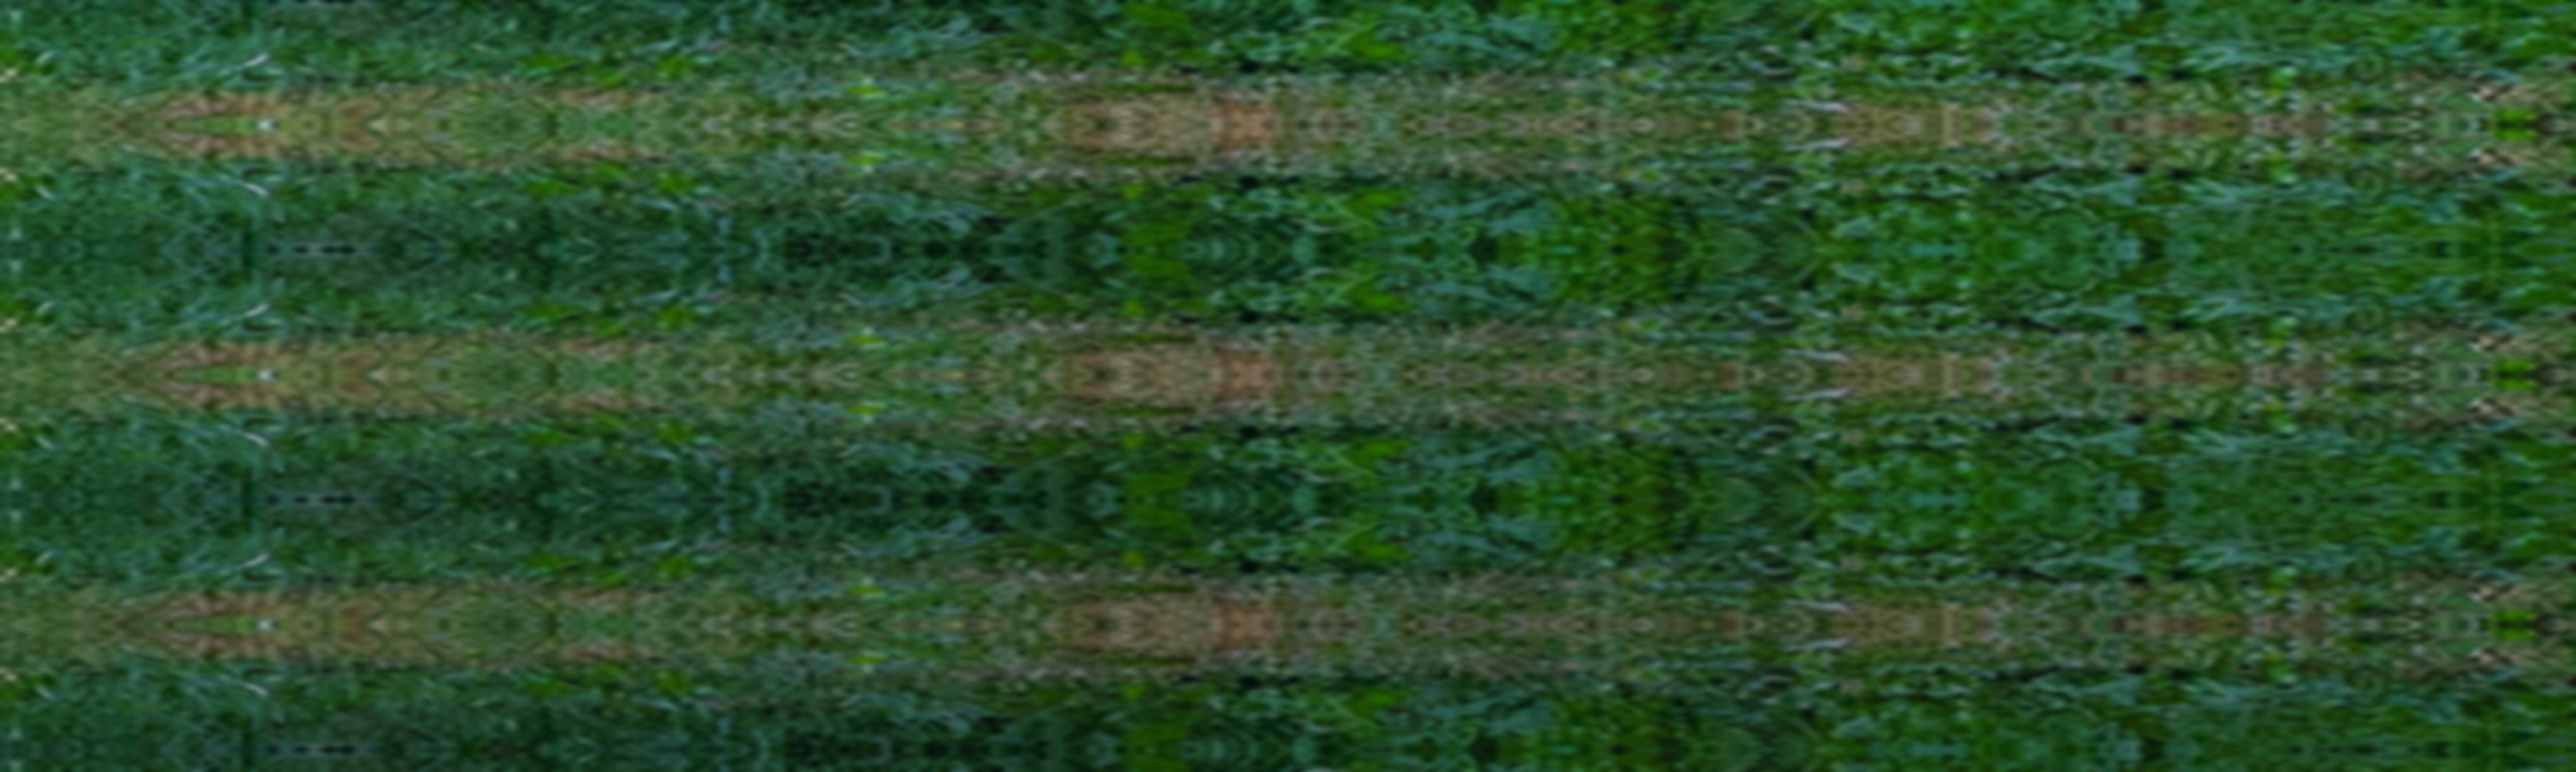
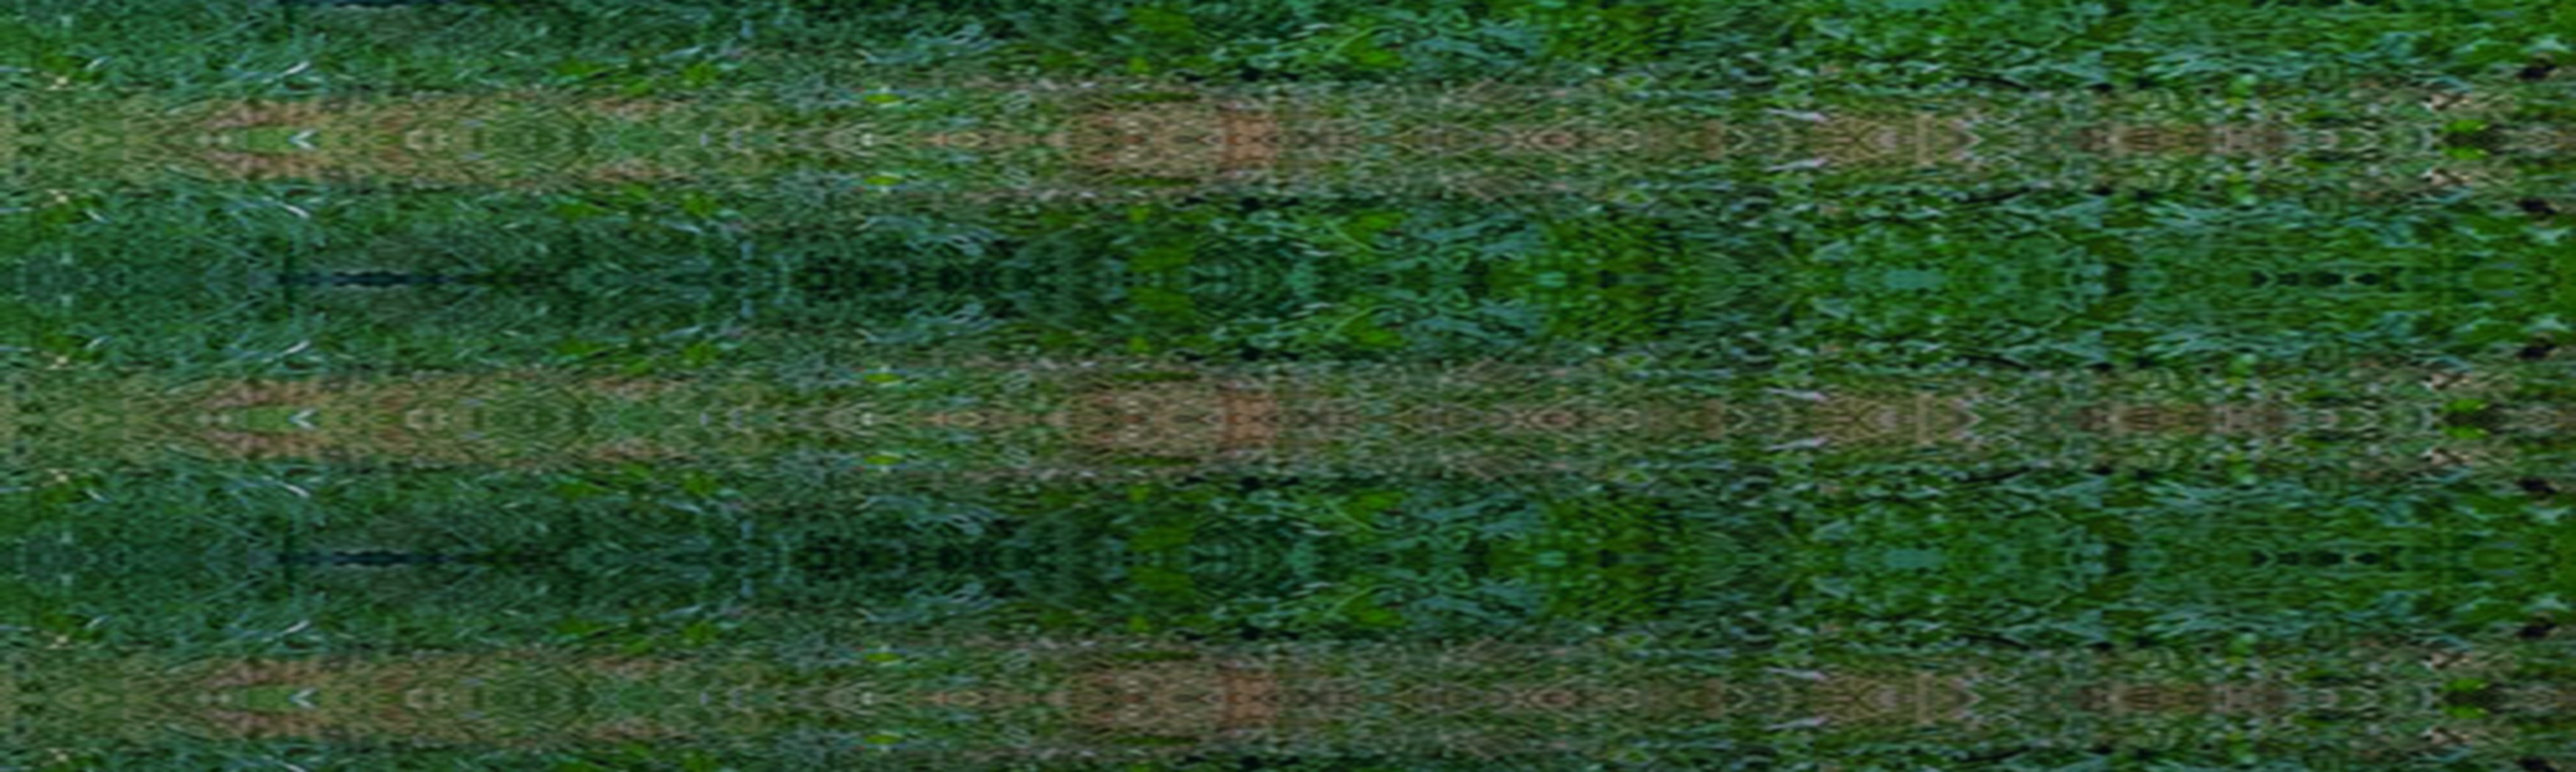
Cover pergola : projection herbe plus nette (flou 3->1.5), bump ?v=3

diff --git a/pergola/page-accueil/index.html b/pergola/page-accueil/index.html
@@ -100,7 +100,7 @@ src="https://www.facebook.com/tr?id=1276467600212409&ev=PageView&noscript=1"/></
   .reviews-section::after{
     content:''; position:absolute; left:0; right:0; top:78px; bottom:0; z-index:-1; pointer-events:none;
     /* voile haut = même teinte assombrie que le bas du hero → raccord invisible, puis s'éclaircit */
-    background-image:linear-gradient(to bottom, rgba(8,16,24,.60) 0%, rgba(8,16,24,.34) 45%, rgba(8,16,24,.14) 100%), url('assets/bg-desktop-proj.jpg?v=2');
+    background-image:linear-gradient(to bottom, rgba(8,16,24,.60) 0%, rgba(8,16,24,.34) 45%, rgba(8,16,24,.14) 100%), url('assets/bg-desktop-proj.jpg?v=3');
     background-size:cover, cover; background-position:center top, center top; background-repeat:no-repeat, no-repeat;
   }
   @media(max-width:768px){
